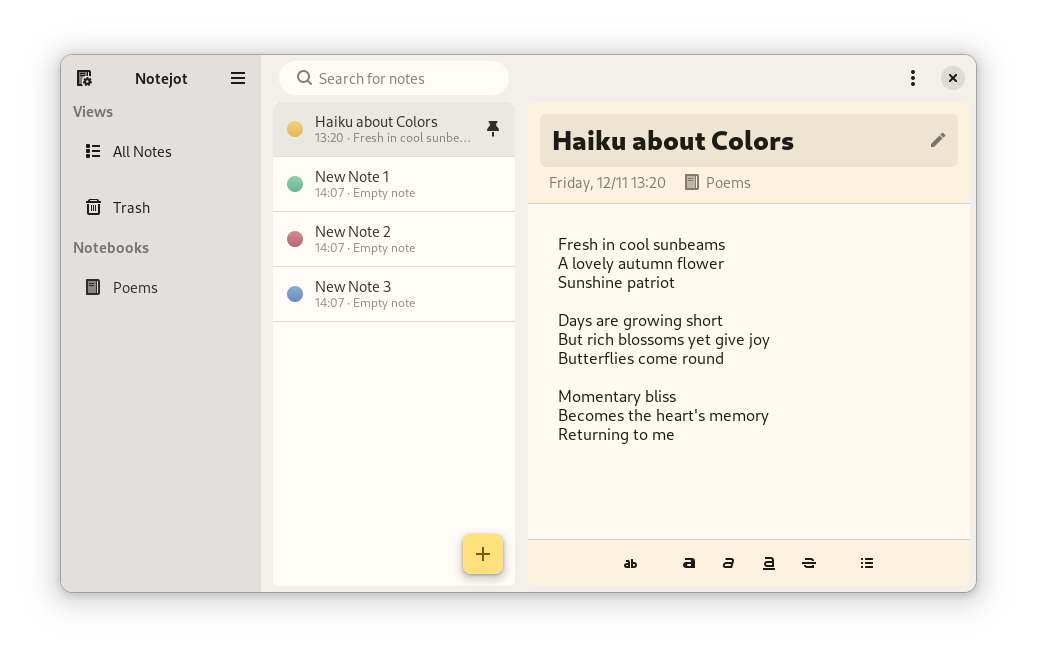
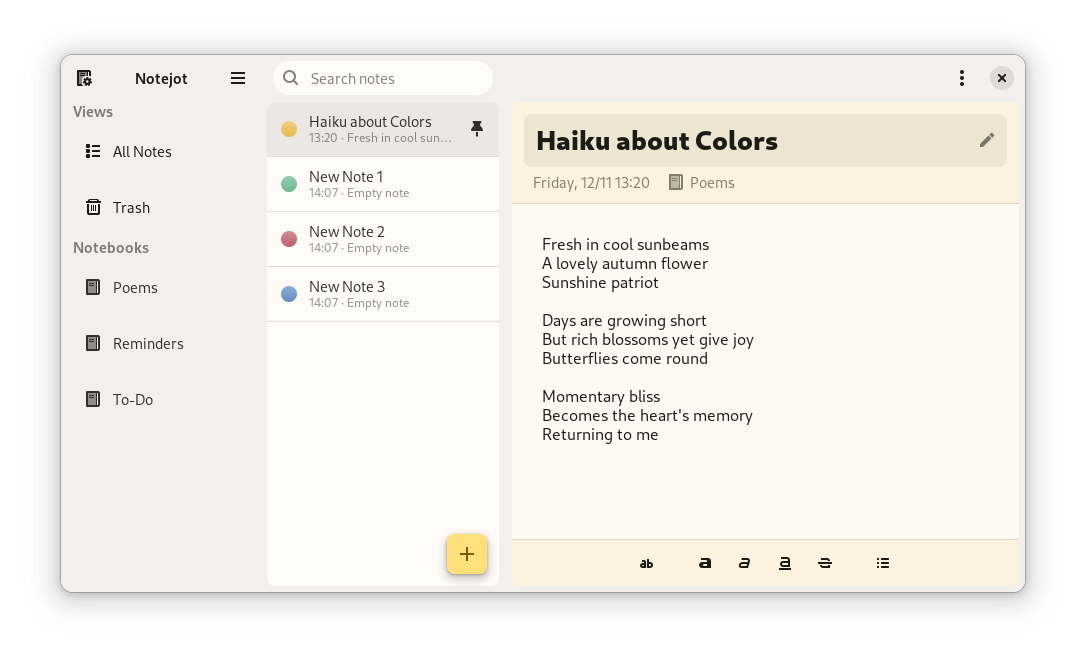
* - revert darker sidebar

diff --git a/data/style.css b/data/style.css
@@ -71,7 +71,7 @@
 	border-radius: 8px;
 	border: none;
 	box-shadow: none;
-	background: mix(@view_bg_color, #151515, 0.12);
+	background: none;
 }
 
 .content-sidebar-notebooks-item {
@@ -167,13 +167,9 @@
 	background: none;
 }
 
-.notejot-sbtitle > windowhandle > box {
+.notejot-sbtitle > windowhandle > box > box {
   margin: 0;
   padding: 0;
-}
-
-.notejot-sidebar {
-	background: mix(@view_bg_color, #151515, 0.12);
 }
 
 .notejot-theme-grid {

diff --git a/data/style-dark.css b/data/style-dark.css
@@ -14,11 +14,3 @@
   background: #ffb4a9;
   color: #680003;
 }
-
-.content-sidebar-notebooks {
-	background: mix(@view_bg_color, white, 0.12);
-}
-
-.notejot-sidebar {
-	background: mix(@view_bg_color, white, 0.12);
-}
